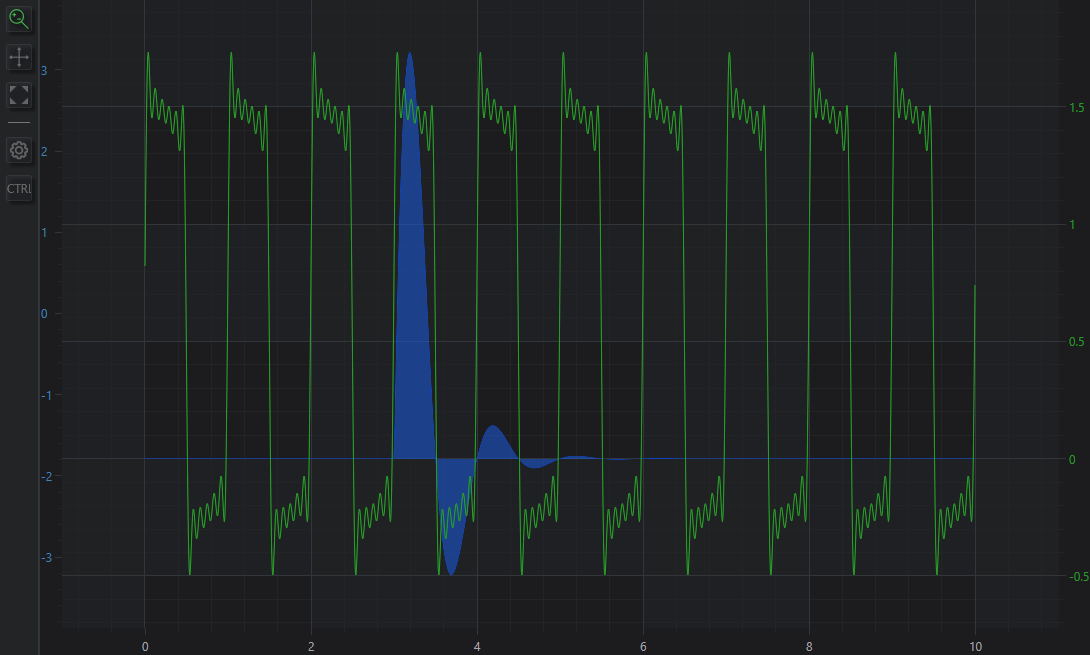
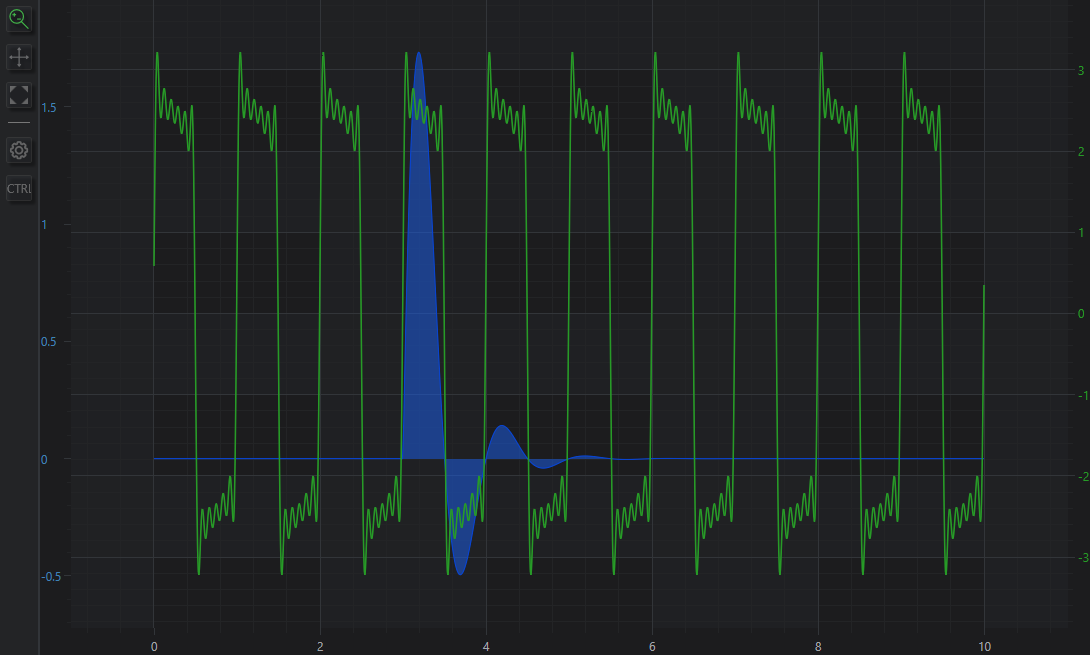
SciChart version 6.4.0.13668

diff --git a/Examples/SciChart.Examples.ExternalDependencies/Resources/Styles/ToolbarButtonsCommon.xaml b/Examples/SciChart.Examples.ExternalDependencies/Resources/Styles/ToolbarButtonsCommon.xaml
@@ -119,9 +119,8 @@
                             </VisualStateGroup>
                         </VisualStateManager.VisualStateGroups>
 
-                        <Canvas x:Name="PART_Popup"
-                                Background="Transparent"
-                                Visibility="Collapsed">
+                        <Popup x:Name="PART_Popup" AllowsTransparency="True" Placement="Left">
+                            
                             <s:Callout x:Name="Callout"
                                            MinWidth="100"
                                            MinHeight="60"
@@ -146,7 +145,7 @@
                                     </Style>
                                 </s:Callout.Resources>
                             </s:Callout>
-                        </Canvas>
+                        </Popup>
 
                         <Border x:Name="PART_Border"
                                 Margin="{TemplateBinding Margin}"
@@ -494,9 +493,7 @@
                             </VisualStateGroup>
                         </VisualStateManager.VisualStateGroups>
 
-                        <Canvas x:Name="PART_Popup"
-                                Background="Transparent"
-                                Visibility="Collapsed">
+                        <Popup x:Name="PART_Popup" AllowsTransparency="True" Placement="Left">
                             <s:Callout x:Name="Callout"
                                            MinWidth="100"
                                            MinHeight="60"
@@ -521,7 +518,7 @@
                                     </Style>
                                 </s:Callout.Resources>
                             </s:Callout>
-                        </Canvas>
+                        </Popup>
 
                         <Border x:Name="PART_Border"
                                 Margin="{TemplateBinding Margin}"

diff --git a/Examples/SciChart.Examples/Examples/AnnotateAChart/AnnotationsAreEasy.xaml b/Examples/SciChart.Examples/Examples/AnnotateAChart/AnnotationsAreEasy.xaml
@@ -30,7 +30,7 @@
                 <s:NumericAxis x:Name="XAxis"
                                AxisAlignment="Bottom"
                                AxisTitle="XAxis"
-                               DrawMajorBands="True"
+                               DrawMajorBands="False"
                                TextFormatting="0.0#"
                                VisibleRange="0, 10" />
             </s:SciChartSurface.XAxes>
@@ -38,7 +38,7 @@
             <s:SciChartSurface.YAxis>
                 <s:NumericAxis x:Name="YAxis"
                                AxisTitle="YAxis"
-                               DrawMajorBands="True"
+                               DrawMajorBands="False"
                                TextFormatting="0.0#" />
             </s:SciChartSurface.YAxis>
 
@@ -77,9 +77,9 @@
                 <!--  Watermark  -->
                 <s:TextAnnotation AnnotationCanvas="BelowChart"
                                   CoordinateMode="Relative"
-                                  FontSize="56"
+                                  FontSize="72"
                                   FontWeight="Bold"
-                                  Foreground="#22000000"
+                                  Foreground="#30008000"
                                   HorizontalAnchorPoint="Center"
                                   Text="Create Watermarks"
                                   VerticalAnchorPoint="Center"

diff --git a/Examples/SciChart.Examples/Examples/ZoomAndPanAChart/DragAreaToZoom.xaml b/Examples/SciChart.Examples/Examples/ZoomAndPanAChart/DragAreaToZoom.xaml
@@ -39,7 +39,7 @@
                 <s:FastMountainRenderableSeries x:Name="mountainSeries" 
                                                     Fill="#771964FF"
                                                     Stroke="#FF0944CF"
-                                                    YAxisId="PrimaryAxis">
+                                                    YAxisId="SecondaryAxis">
                     <s:FastMountainRenderableSeries.SeriesAnimation>
                         <s:SweepAnimation AnimationDelay="0:0:1" Duration="0:0:3"/>
                     </s:FastMountainRenderableSeries.SeriesAnimation>
@@ -47,7 +47,7 @@
                 <s:FastLineRenderableSeries x:Name ="lineSeries" 
                                                 Stroke="#FF279B27"
                                                 StrokeThickness="2"
-                                                YAxisId="SecondaryAxis">
+                                                YAxisId="PrimaryAxis">
                     <s:FastLineRenderableSeries.SeriesAnimation>
                         <s:SweepAnimation AnimationDelay="0:0:1" Duration="0:0:3"/>
                     </s:FastLineRenderableSeries.SeriesAnimation>

diff --git a/Examples/SciChart.Examples.ExternalDependencies/Common/FlyoutMenuToggleButton.cs b/Examples/SciChart.Examples.ExternalDependencies/Common/FlyoutMenuToggleButton.cs
@@ -36,7 +36,7 @@ namespace SciChart.Examples.ExternalDependencies.Common
         public static readonly DependencyProperty PopupAlignmentProperty =
             DependencyProperty.Register("PopupAlignment", typeof(PopupAlignment), typeof(FlyoutMenuToggleButton), new PropertyMetadata(PopupAlignment.Left));
 
-        private Canvas _popup;
+        private Popup _popup;
         private Border _border;
         private TimedMethod _popupCloseToken;
         private Storyboard _fadeStoryboard;
@@ -64,7 +64,7 @@ namespace SciChart.Examples.ExternalDependencies.Common
         {
             base.OnApplyTemplate();
 
-            _popup = GetTemplateChild("PART_Popup") as Canvas;
+            _popup = GetTemplateChild("PART_Popup") as Popup;
             _border = GetTemplateChild("PART_Border") as Border;
             _root = GetTemplateChild("RootElement") as Grid;
             _callout = GetTemplateChild("Callout") as Callout;
@@ -76,14 +76,14 @@ namespace SciChart.Examples.ExternalDependencies.Common
 
             if (DesignerProperties.GetIsInDesignMode(this))
             {
-                _popup.Visibility = Visibility.Visible;
+                _popup.IsOpen = true;
             }
 
             MouseLeave += (s, e) =>
             {
                 _popupCloseToken = TimedMethod.Invoke(() =>
                 {
-                    _popup.Visibility = Visibility.Collapsed;
+                    _popup.IsOpen = false;
                 }).After(200).Go();
             };
             MouseEnter += (s, e) =>
@@ -93,9 +93,9 @@ namespace SciChart.Examples.ExternalDependencies.Common
                     _popupCloseToken.Dispose();
                     _popupCloseToken = null;
                 }
-                if (_popup.Visibility == Visibility.Collapsed)
+                if (!_popup.IsOpen)
                 {
-                    _popup.Visibility = Visibility.Visible;
+                    _popup.IsOpen = true;
                 }
             };
 
@@ -112,15 +112,10 @@ namespace SciChart.Examples.ExternalDependencies.Common
             {
                 _popupCloseToken = TimedMethod.Invoke(() =>
                 {
-                    _popup.Visibility = Visibility.Collapsed;
+                    _popup.IsOpen = false;
                 }).After(200).Go();
             };
 
-            //#if !SILVERLIGHT
-            //            _popup.VerticalOffset = -32;
-            //            _popup.AllowsTransparency = true;
-            //            _popup.PopupAnimation = PopupAnimation.Fade;
-            //#endif
         }
     }
 }

diff --git a/Examples/SciChart.Examples.ExternalDependencies/Common/FlyoutMenuButton.cs b/Examples/SciChart.Examples.ExternalDependencies/Common/FlyoutMenuButton.cs
@@ -43,7 +43,7 @@ namespace SciChart.Examples.ExternalDependencies.Common
         public static readonly DependencyProperty PopupAlignmentProperty =
             DependencyProperty.Register("PopupAlignment", typeof(PopupAlignment), typeof(FlyoutMenuButton), new PropertyMetadata(PopupAlignment.Left));
 
-        private Canvas _popup;
+        private Popup _popup;
         private Border _border;
         private TimedMethod _popupCloseToken;
         private Storyboard _fadeStoryboard;
@@ -71,7 +71,7 @@ namespace SciChart.Examples.ExternalDependencies.Common
         {
             base.OnApplyTemplate();
 
-            _popup = GetTemplateChild("PART_Popup") as Canvas;
+            _popup = GetTemplateChild("PART_Popup") as Popup;
             _border = GetTemplateChild("PART_Border") as Border;
             _root = GetTemplateChild("RootElement") as Grid;
             _callout = GetTemplateChild("Callout") as Callout;
@@ -93,9 +93,9 @@ namespace SciChart.Examples.ExternalDependencies.Common
                     _popupCloseToken.Dispose();
                     _popupCloseToken = null;
                 }
-                if (_popup.Visibility == Visibility.Collapsed)
+                if (!_popup.IsOpen)
                 {
-                    _popup.Visibility = Visibility.Visible;
+                    _popup.IsOpen = true;
                     _fadeStoryboard.Begin();
                 }
             };
@@ -104,7 +104,7 @@ namespace SciChart.Examples.ExternalDependencies.Common
             {
                 _popupCloseToken = TimedMethod.Invoke(() =>
                 {
-                    _popup.Visibility = Visibility.Collapsed;
+                    _popup.IsOpen = false;
                     _fadeStoryboard.Stop();
                 }).After(200).Go();
             };
@@ -122,16 +122,11 @@ namespace SciChart.Examples.ExternalDependencies.Common
             {
                 _popupCloseToken = TimedMethod.Invoke(() =>
                 {
-                    _popup.Visibility = Visibility.Collapsed;
+                    _popup.IsOpen = false;
                     _fadeStoryboard.Stop();
                 }).After(200).Go();
             };
 
-//#if !SILVERLIGHT
-//            _popup.VerticalOffset = -32;
-//            _popup.AllowsTransparency = true;
-//            _popup.PopupAnimation = PopupAnimation.Fade;
-//#endif
         }
     }
 }

diff --git a/Examples/AssemblyInfoCommon.cs b/Examples/AssemblyInfoCommon.cs
@@ -42,4 +42,4 @@ using System.Runtime.InteropServices;
 
 // NOTE: MASTER SHOULD KEEP THIS AS V7.x WHEN MERGING. 
 // This is to prevent conflicts in teamcity when tests are run on both master & v6 branch at the same time. 
-[assembly: AssemblyVersion("6.4.0.13651")]
+[assembly: AssemblyVersion("6.4.0.13668")]
